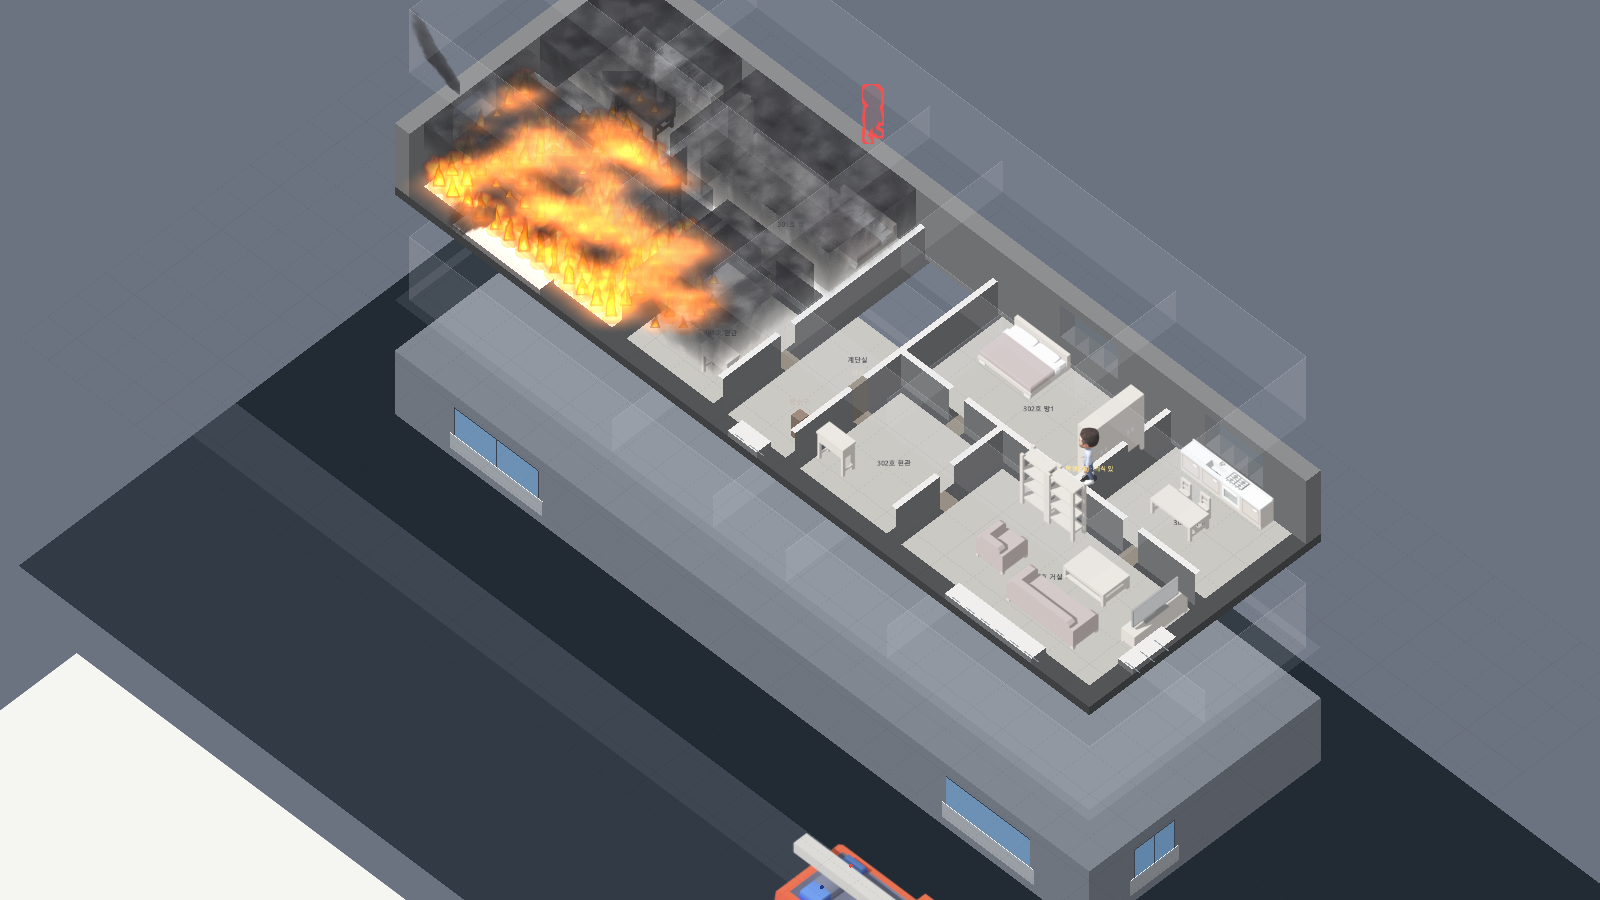
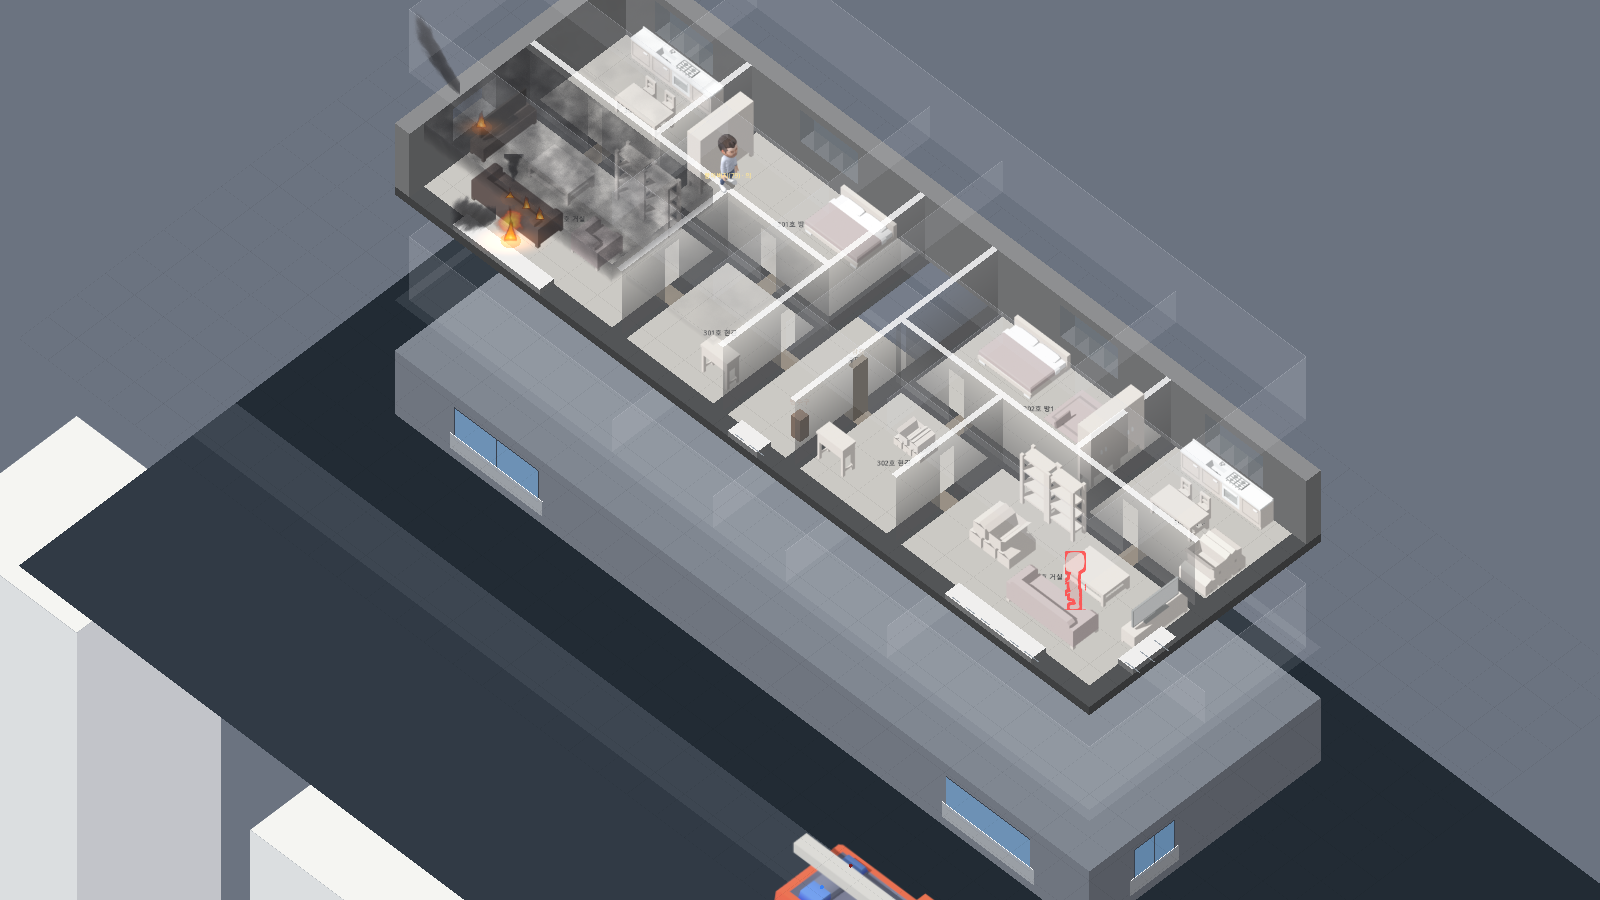
F04: 실내 벽 천장까지 — 아래 진하게·위로 옅게, 흰 윗면 테두리, 문 위 벽

Changed region(s): [[0.25, 0.0, 0.7812, 0.6533], [0.0, 0.4667, 0.3125, 1.0], [0.6562, 0.6222, 0.6875, 0.6844]]

diff --git a/docs/decisions.md b/docs/decisions.md
@@ -112,3 +112,4 @@
 | 2026-11-12 | F04 | 연기 선두 (천장을 따라 퍼진 뒤 쌓임) | A: 시뮬레이션에 연기 선두 추가. 방마다 출발점(불난 방 = 타는 칸 가운데, 옆방 = 연기가 들어온 개구부)과 선두 거리. 교재 수평 0.5~1m/s(화재2 제4편 제7절, 기획안 5-3-1)로 나아가고 상부층이 뜨거울수록(외기+200℃에서 최대) 빠름. 다 덮기 전: 덮인 원 안에만 천장류 두께(천장 높이 × 0.1, Alpert)의 얇은 판·커튼, 가장자리에 말려 나가는 덩어리, 선두 밖은 시야 맑음, 선두가 닿지 않은 개구부로는 넘치지 않음. 다 덮은 뒤: 예전처럼 연기층이 아래로 쌓임. 연기 부피·두께 계산(2층 구획 모델)은 그대로 | 사용자 결정 — 실제 화재성상(솟음 → 천장 따라 퍼짐 → 아래로 쌓임 → 문 윗면 아래로 내려오면 옆방). B(화면만 흉내)는 화면·시뮬 어긋남, C(공간 쪼개기)는 과함 |
 | 2026-11-12 | F04 | 연기 진하기 통일 | 진하기 하나 = 1 - e^(-1.2 × 짙기 × 연기층 두께), 상한 0.75 (짙기 = 0.25 + 0.75 × (1 - 가시거리/10m)). 커튼 천장 쪽과 윗면 판이 같은 값. 커튼은 천장 1 → 연기층 아랫면 0.4로 옅어짐(꼭짓점 색). 윗면 그림은 틈 때문에 평균 불투명도 0.42라 모자란 만큼 고른 색을 아래에 깔아 평균을 맞춤(fx.json mean_alpha) | 사용자 결정 — 커튼(벽 쪽)은 검고 천장 쪽은 옅어 물리(천장이 가장 진하고 아래로 옅어짐)와 거꾸로 보였음. 원인: 같은 연기를 커튼 0.52·윗면 0.29로 그렸고, 커튼은 위아래가 같은 진하기, 아래쪽 그늘이 짙은 연기처럼 보임. 커튼 다시 굽기(그늘 없애기)는 보류 |
 | 2026-11-12 | F04 | 연기 상자 (겹침 없애기, 1단계) | 한 방의 연기를 상자 윗면(천장 높이, Blender 윗면 그림)과 앞면 둘(남·동, 커튼 그림)로만 그린다 — 세 면은 화면에서 겹치지 않는다. 윗면 진하기 = 1 - e^(-k × 짙기 × 두께), 앞면은 천장 쪽이 윗면과 같고 연기층 아랫면에서 0.15배(시선이 연기를 지나는 거리). 연기가 쌓이면 앞면이 아래로 길어지고 윗면이 진해진다 | 사용자 결정 — 아랫면 높이의 판과 앞면 커튼이 겹쳐 두 번 칠해짐. 다음: 2) 벽 천장까지 + 아래 진하게·위 옅게 그라데이션 + 흰 윗면 테두리, 3) 대상 앞 벽 옅게·연기에 덮인 대원 테두리 |
+| 2026-11-12 | F04 | 실내 벽 천장까지 (2단계) | 실내 벽 높이 1.2m → 2.4m(천장). 진하기는 높이에 따라 바닥 0.7 → 천장 0.15 그라데이션, 천장 높이 윗면은 흰 테두리(0.8). 실내 문 위(2.0~2.4m)도 같은 그라데이션 벽으로 채움. 위·아래 층(흐린 층) 실내 벽은 1.2m 유지(ghost_inner_wall_m) | 사용자 결정 — 벽이 1/3 높이라 천장까지 차는 연기 상자와 어울리지 않음. 벽은 아래가 진하고 연기 앞면은 위가 진해 같은 면에서 구분된다 |

diff --git a/docs/progress.md b/docs/progress.md
@@ -37,3 +37,4 @@
 | 2026-11-12 | F04 연기 선두 | scripts/simulation/compartment(compartment 선두·opening center·compartment_model _advance_front·넘침 조건), fire_sim(_start_fire_fronts), perception(선두 밖 맑음·room_seen_reach), scripts/ui/fx_art(draw_flip_poly)·building/floor_layer(선두 원 자르기·가장자리), data/fire/fire_params(smoke_front_*·ceiling_jet_depth_ratio), tests(test_smoke_front 새, _shot_house front 옵션, _probe_smoke 점검 도구) | 시나리오가 신고 몇 분 뒤에 시작해 처음 화점실은 이미 덮여 있음 — 퍼지는 모습은 문을 열거나 새 방으로 번질 때 보임. 먼 방 연기층이 화점실보다 두꺼워지는 현상은 따로 점검 필요 |
 | 2026-11-12 | F04 연기 진하기 통일 | scripts/ui/fx_art(draw_flip 아래쪽 배율·mean_alpha)·building/floor_layer(진하기 하나·윗면 바탕색·커튼 위아래 변화)·view_params, data/ui/view_params(smoke_max_opacity·smoke_opacity_k·smoke_curtain_low, 예전 smoke_curtain_alpha·smoke_sheet_alpha 지움), art/fx/fx.json(mean_alpha), tools/blender/smoke_fx.py(mean_alpha 기록), tests/test_cutaway | 전체가 조금 어두워짐 — 바닥이 잘 안 보이면 smoke_max_opacity 낮추기 |
 | 2026-11-12 | F04 연기 상자 1단계 | scripts/ui/building/floor_layer(윗면을 천장 높이로)·view_params, data/ui/view_params(smoke_curtain_low 0.15) | 연기가 많이 찬 뒤(5분)는 전체가 꽤 어두움 — smoke_max_opacity로 조정. 벽(2단계)·벽 옅게(3단계) 남음 |
+| 2026-11-12 | F04 실내 벽 천장까지 | scripts/ui/building/floor_layer(_inner_wall·_thin_wall/_thin_box 그라데이션·문 위 벽)·view_params, data/ui/view_params(inner_wall_m 2.4·inner_wall_alpha_*·inner_wall_cap_alpha·ghost_inner_wall_m), tests/test_cutaway | 3단계(대상 앞 벽 옅게·다른 방 연기에 덮인 대원 테두리) 남음 |
